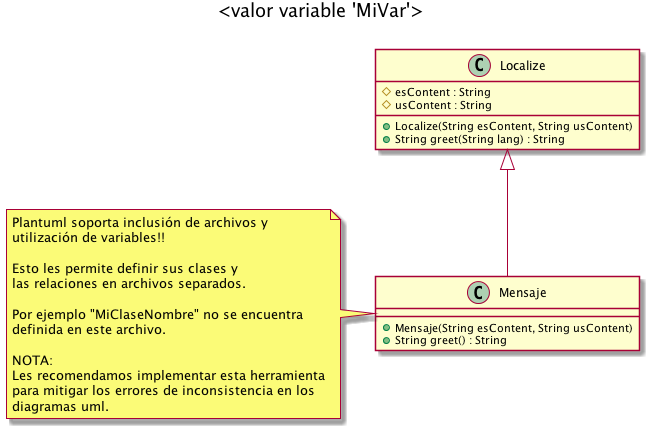
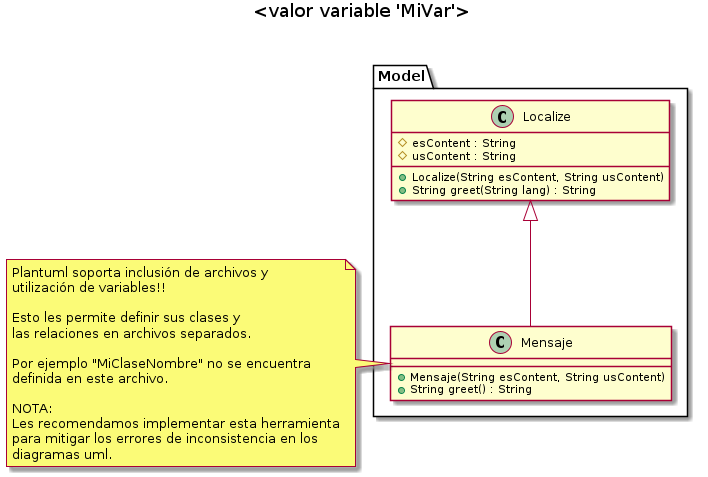
[diagrams] Model package

Changed region(s): [[0.0, 0.0909, 1.0, 1.0], [0.3349, 0.0, 0.6697, 0.0606]]

diff --git a/docs/Desarrollo.md b/docs/Desarrollo.md
@@ -13,6 +13,10 @@ Existen distintas maneras de configurar el ambiente de desarrollo:
 
 [Plantuml](https://plantuml.com/) soporta un mecanísmo que les facilitará la generación y posterior mantenimiento de los diagramas de clase, secuencia, estado y paquetes. Para mayor información referir [guía de PlantUML](./PlantUML.md)
 
+### Paquetes
+
+![modelo_paquete](../diagrams/packages/paquete_modelo_dependencias.png)
+
 ## Empaquetado
 
 Cuando se genera un **tag** que comienza con `v` (ejemplo `v0.0.1`) automáticamente se produce un [release](https://github.com/fiuba/algo3_proyecto_base_tp2/releases) con la aplicación empaquetada. Para el nombre de la versión se recomienda utilizar [versionado semántico](https://semver.org/lang/es/), por ejemplo:
